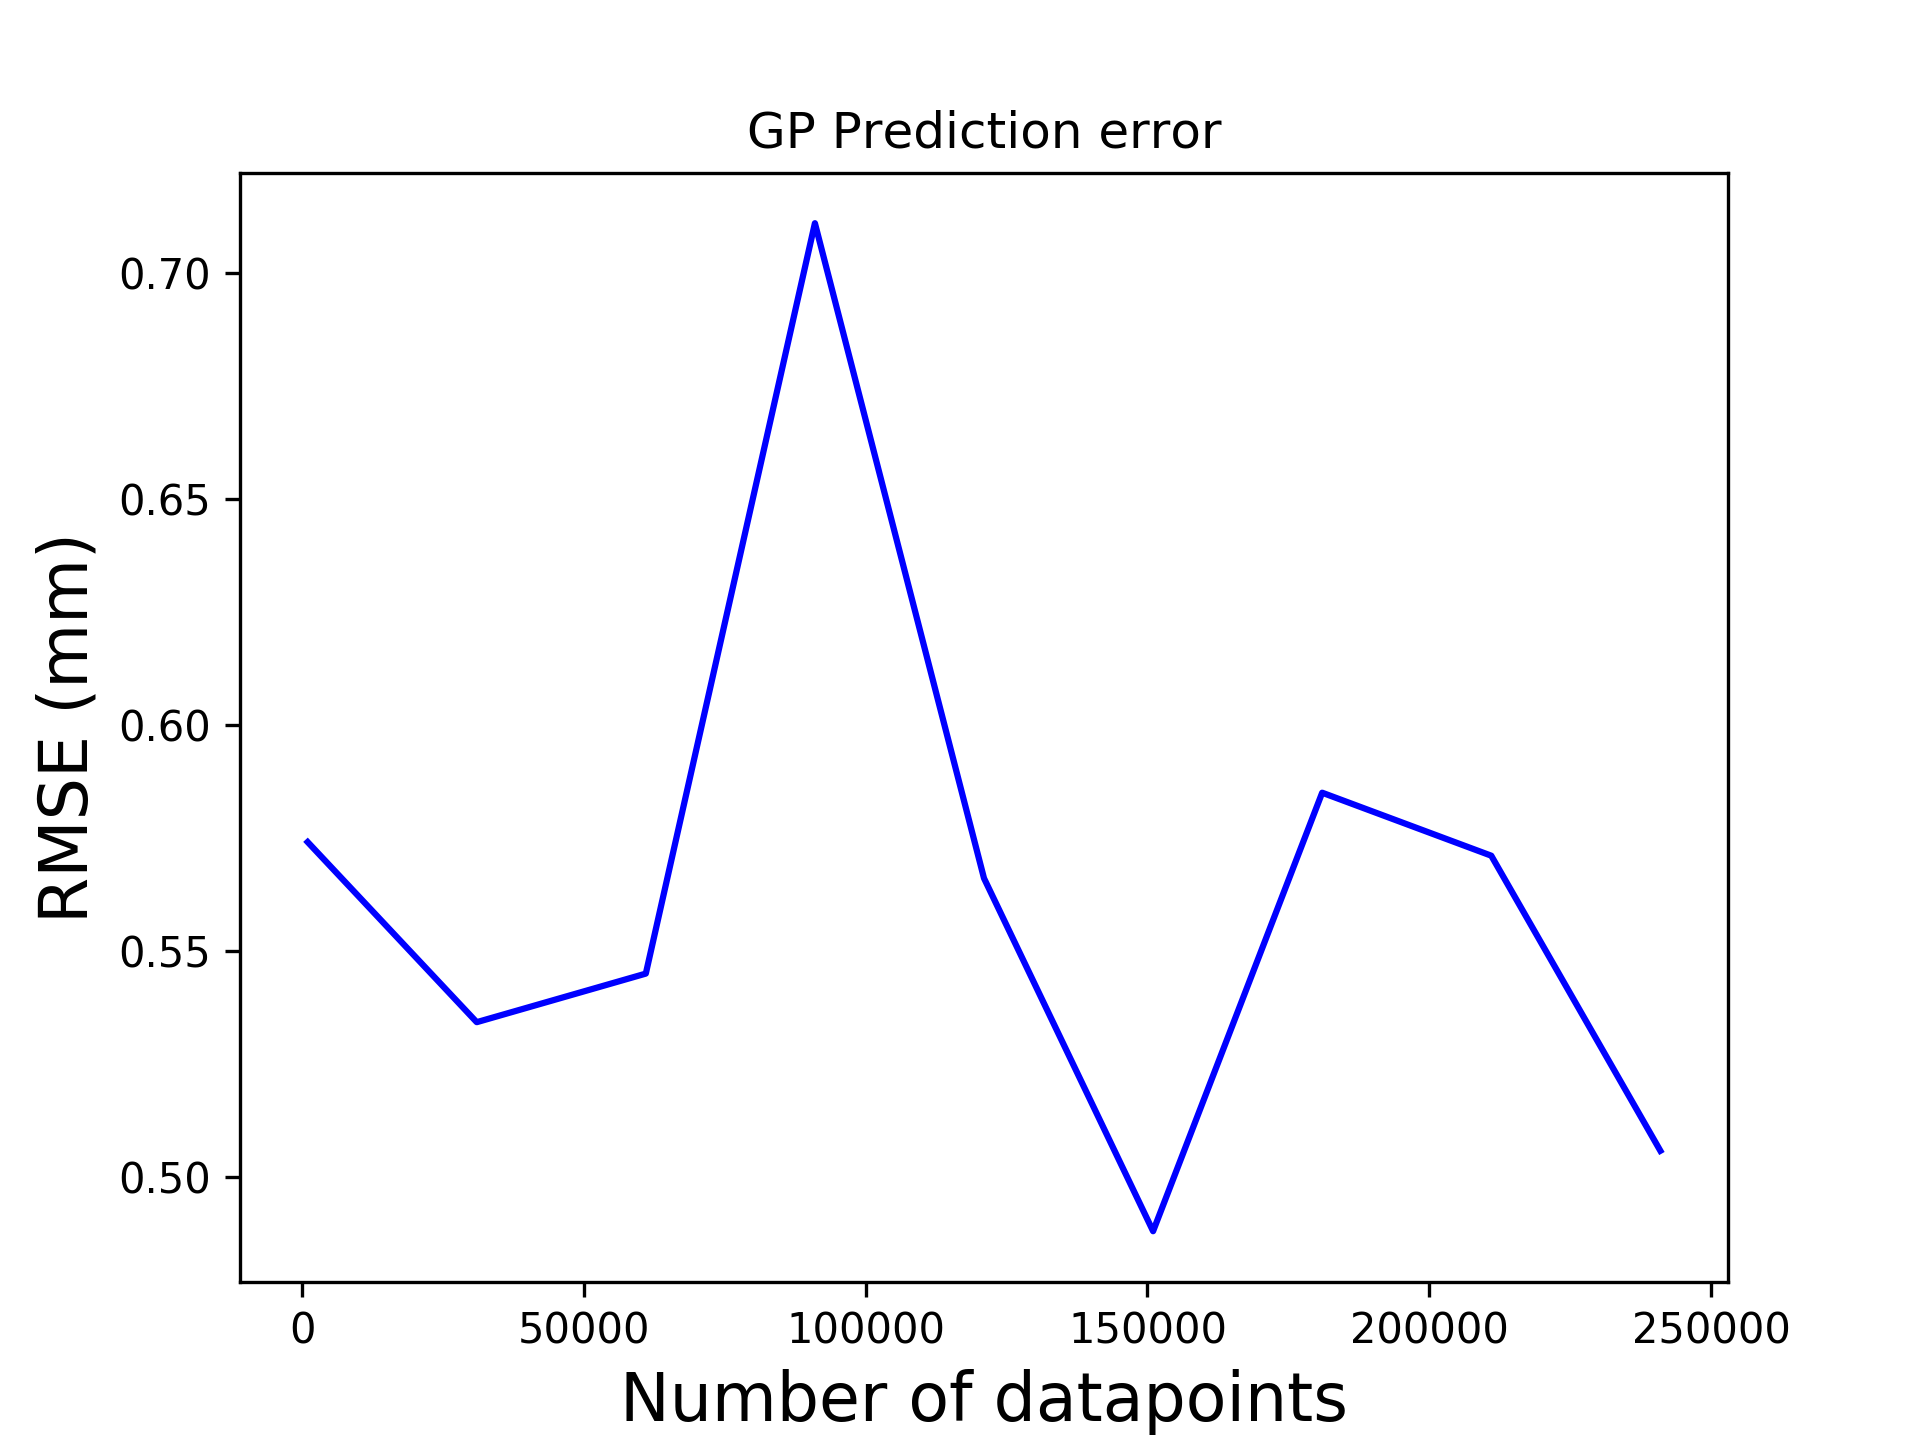
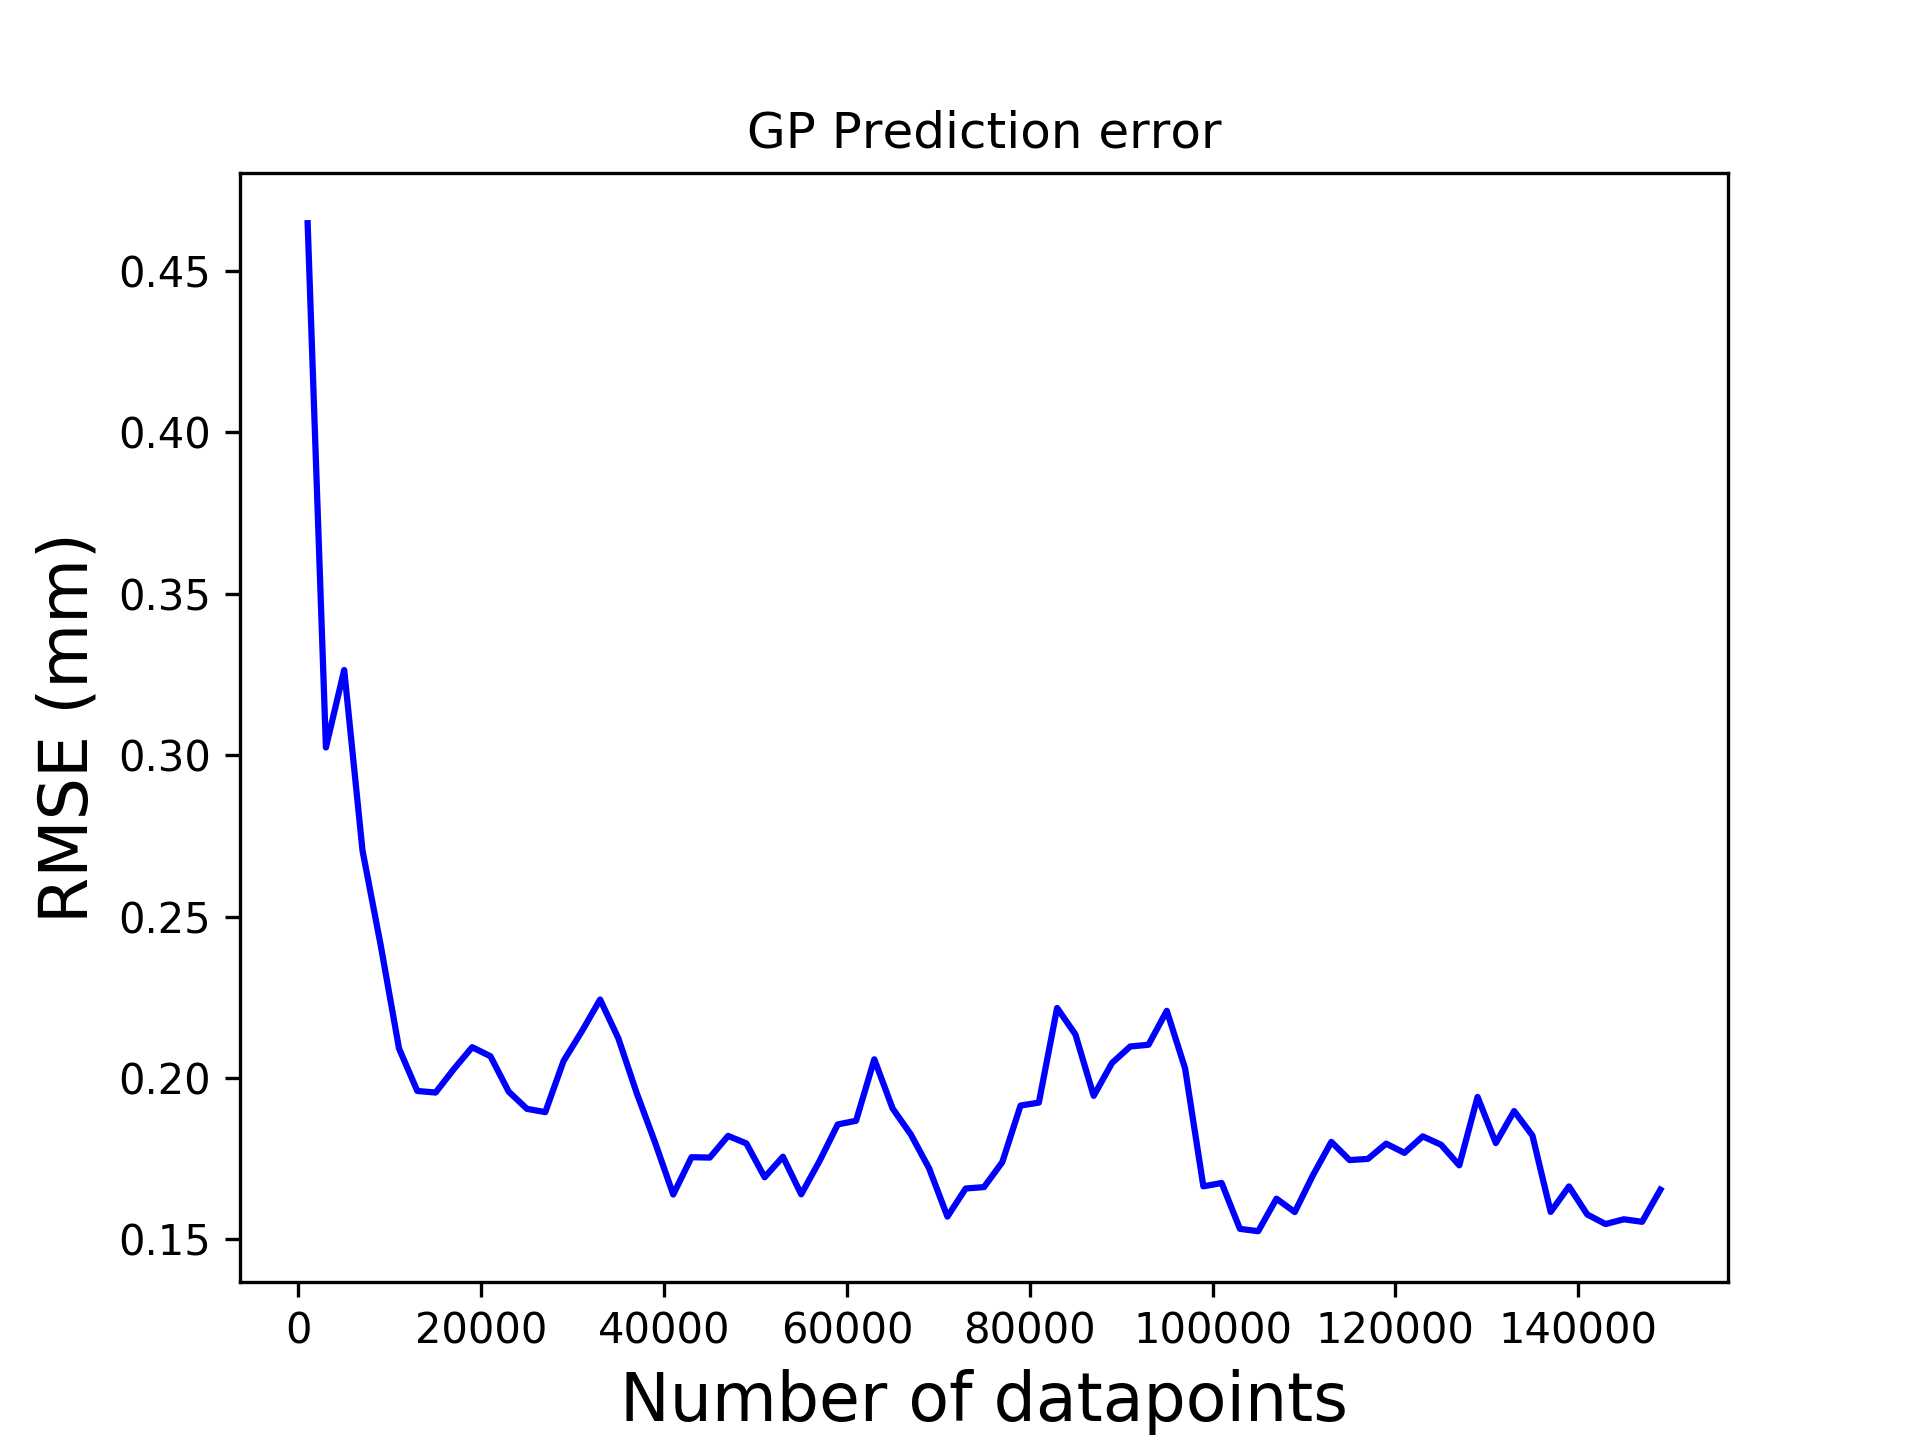
Datasize

diff --git a/gpup_gp_node/src/for_paper/error_datasize.py b/gpup_gp_node/src/for_paper/error_datasize.py
@@ -14,8 +14,8 @@ import time
 # np.random.seed(10)
 
 version = 0
-Obj = 'cyl35'
-if np.any(Obj == np.array(['sqr30','poly10','poly6','elp40','str40'])):
+Obj = 'egg50'
+if np.any(Obj == np.array(['sqr30','poly10','poly6','elp40','str40','rec60','rec10','egg50'])):
     state_dim = 5
 else:
     state_dim = 4
@@ -42,6 +42,38 @@ def medfilter(x, W):
             x_new[i] = np.mean(x[i-w:i+w])
     return x_new
 
+def predict_GP(s_start, A):
+    print "Running GP with horizon " + str(A.shape[0])
+
+    s = np.copy(s_start)# + np.random.normal(0, sigma_start)
+    S = s.reshape(1,state_dim)
+
+    p_naive = 1
+    for i in range(0, A.shape[0]):
+        # print("[GP] Step " + str(i) + " of " + str(A.shape[0]))
+        a = A[i,:]
+
+        res = naive_srv(s.reshape(-1,1), a)
+
+        s_next = np.array(res.next_state)
+        s = np.copy(s_next)
+
+        S = np.append(S, s_next.reshape(1,state_dim), axis=0)
+
+    return S
+
+def tracking_error(S1, S2):
+    Sum = 0.
+    for s1, s2 in zip(S1, S2):
+        Sum += np.linalg.norm(s1[:2]-s2[:2])**2
+
+    l = 0.
+    for i in range(1,S1.shape[0]):
+        l += np.linalg.norm(S1[i,:2] - S1[i-1,:2])
+
+    return np.sqrt(Sum / S1.shape[0]), l
+
+
 w = [40, 40, 100, 100]
 
 ## GP
@@ -49,15 +81,21 @@ if 1:
     with open(test_path + 'testpaths_' + Obj + '_d_v' + str(version) + '.pkl', 'r') as f: 
         action_seq, test_paths, Obj, Suc = pickle.load(f)
 
-    Ggp = []
+    if 0:
+        with open(path + 'datasize_analysis_' + Obj + '_gp.pkl', 'r') as f: 
+            Ld, Ggp = pickle.load(f)
+    else: 
+        Ggp = []
+        l_start = 1000
 
-    Ld = range(1000, 250000,30000)#2500)
+    Ld = range(l_start, 150000,2000)#2500)
     n = 100
+    h = 10
     for l in Ld:
         g = setKD_srv(l)
         e = 0.0
         for k in range(n):
-            print("Run data %d points, and trial %d."%(l, k))
+            print("Run data %d points, object %s, and trial %d."%(l, Obj, k))
             path_inx = np.random.randint(len(test_paths))
             R = test_paths[path_inx]
             A = action_seq[path_inx]
@@ -66,15 +104,27 @@ if 1:
             else:
                 R = R[:,[0,1,11,12]]
             A = np.concatenate((A, np.tile(R[0,:], (A.shape[0], 1))), axis=1)
-            st_inx = np.random.randint(R.shape[0]-2)
-            s = R[st_inx]
-            s_next = R[st_inx+1]
-            a = A[st_inx]
+            st_inx = np.random.randint(R.shape[0]-h-1)
 
-            res = naive_srv(s.reshape(-1,1), a)
-            s_next_pred = np.array(res.next_state)
+            # s = R[st_inx]
+            # s_next = R[st_inx+1]
+            # a = A[st_inx]
+            # res = naive_srv(s.reshape(-1,1), a)
+            # s_next_pred = np.array(res.next_state)
+            # e += np.linalg.norm(s_next_pred[:2]-s_next[:2])**2
 
-            e += np.linalg.norm(s_next_pred[:2]-s_next[:2])**2
+            for i in range(state_dim):
+                if i == 4:
+                    continue
+                try:
+                    R[:,i] = medfilter(R[:,i], w[i])
+                except:
+                    R[:,i] = medfilter(R[:,i], 40)
+            R = R[st_inx:st_inx+h]
+            A = A[st_inx:st_inx+h]
+            R_gp = predict_GP(R[0,:], A)
+            E, _ = tracking_error(R, R_gp)
+            e += E**2
 
         Ggp.append(np.sqrt(e / n))
         
@@ -91,7 +141,7 @@ else:
         Ld, Ggp = np.array(pickle.load(f))
 
  
-Ggp = medfilter(Ggp, 10)
+Ggp = medfilter(Ggp, 5)
 
 plt.plot(Ld, Ggp, '-b', label = 'GP')
 
